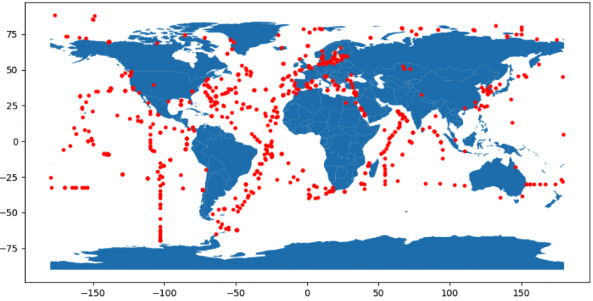
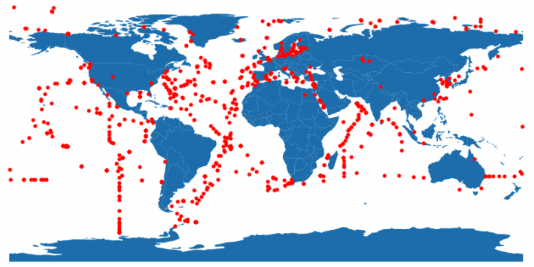
minor corrections to marine cat v2 post

diff --git a/_posts/2024-08-08-Charting-New-Waters.md b/_posts/2024-08-08-Charting-New-Waters.md
@@ -9,8 +9,10 @@ emg:
     https://www.ebi.ac.uk/metagenomics/genome-catalogues/marine-v2-0
 ---
 ![Cartoon illustration of a marine biome]({{site.baseurl}}/assets/media/images/posts/marine/biome-icon.svg){:width="136px"}
-We are excited to announce the release of an updated version of the [MGnify Genomes marine catalogue](https://www.ebi.ac.uk/metagenomics/genome-catalogues/marine-v2-0). This latest release (v2.0) of the marine catalogue contains data from 1628 studies.
-Including genomes from major sampling expeditions such as Tara Oceans, Malaspina, GO-Ship, and Geotraces, amongst others. The inclusion of these datasets resulted in a broad geographical distribution of samples represented in the catalogue as shown in the image below.
+We are excited to announce the release of an updated version of the [MGnify Genomes marine catalogue](https://www.ebi.ac.uk/metagenomics/genome-catalogues/marine-v2-0).
+This latest release (v2.0) of the marine catalogue contains data from 1628 studies, including genomes from major sampling expeditions such as Tara Oceans, Malaspina, GO-Ship, and Geotraces, amongst others. 
+
+The inclusion of these datasets resulted in a broad geographical distribution of samples represented in the catalogue, as shown in the image below.
 
 <figure>
     <img src="{{site.baseurl}}/assets/media/images/posts/marine/geo-distribution.png" alt="Schematic illustration of dataflow from three existing catalogues and newly assembled MAGs into the new unified catalogue" style="width:100%;" id="fig-dataflow"/>
@@ -19,9 +21,9 @@ Including genomes from major sampling expeditions such as Tara Oceans, Malaspina
     </figcaption>
 </figure>
 
-An important advancement in this version of the catalogue is that it is representative of the marine genomes available in the public archives at the time of generation. It includes not only those generated and submitted by MGnify, but also MAGs generated by other groups and submitted to the INSDC, as well as isolate genomes (and MAGs) from marine data as curated by MarDB. All genomes undergo the same filtering for a quality score of QS50 (QS, quality score, defined as completeness - 5 x contamination) resulting in a total of 50,866 genomes (50,634 MAGs and 232 isolates) included in v2.0 of the MGnify Genomes marine catalogue.
+An important advancement in this version of the catalogue is that it is representative of the marine genomes available in the public archives at the time of generation. It includes not only those generated and submitted by MGnify, but also MAGs generated by other groups and submitted to the INSDC, as well as isolate genomes (and MAGs) from marine data as curated by [MarDB](https://dx.doi.org/10.1093/nar/gkx1036). All genomes undergo the same filtering for a quality score of QS50 (QS, quality score, defined as `completeness - 5 x contamination`) resulting in a total of 50,866 genomes (50,634 MAGs and 232 isolates) included in v2.0 of the MGnify Genomes marine catalogue.
 
-This catalogue was generated using v2.3.0 of the MGnify Genomes catalogue pipeline which is available on [GitHub](https://github.com/EBI-Metagenomics/genomes-pipeline/releases/tag/v2.3.0) and [WorkflowHub](https://workflowhub.eu/workflows/462). Genomes are clustered into 13,223 species-level clusters, with a cluster representative genome defined for each. [GTDB-tk (Genome Taxonomy DataBase Toolkit)](https://github.com/Ecogenomics/GTDBTk) is used to assign a taxonomic rank to the clusters, allowing us to also understand the proportion of genomes within the catalogue which can be considered novel with respect to the current release of [GTDB](https://gtdb.ecogenomic.org/). The various statistics for the catalogue are shown in the table below.
+This catalogue was generated using v2.3.0 of the MGnify Genomes catalogue pipeline which is available on [GitHub](https://github.com/EBI-Metagenomics/genomes-pipeline/releases/tag/v2.3.0) and [WorkflowHub](https://workflowhub.eu/workflows/462). Genomes are clustered into 13,223 species-level clusters, with a cluster representative genome defined for each. [GTDB-Tk (Genome Taxonomy DataBase Toolkit)](https://github.com/Ecogenomics/GTDBTk) is used to assign a taxonomic rank to the clusters, allowing us to also understand the proportion of genomes within the catalogue which can be considered novel with respect to the current release of [GTDB](https://gtdb.ecogenomic.org/). The various statistics for the catalogue are shown in the table below.
 
 <table style="width:100%; border-collapse: collapse;">
   <tr>
@@ -70,15 +72,13 @@ This catalogue was generated using v2.3.0 of the MGnify Genomes catalogue pipeli
   </tr>
 </table>
 
-As with all MGnify Genomes catalogues, the data is available to access and query both through the [MGnify website](https://www.ebi.ac.uk/metagenomics/genome-catalogues/marine-v2-0) as well as via the [MGnify API](https://www.ebi.ac.uk/metagenomics/api/v1/). The catalogue can be browsed by list of genomes and taxonomic tree, with the ability to filter on metadata fields, providing access to individual cluster representative genome records. Within the individual genome records there are comprehensive genome statistics, summaries of annotations, and an interactive genome browser allowing interrogation of the various annotation tracks and their genomic context. All results files can be downloaded via FTP from the catalogue directory. There are also two sequence-based search options that can be carried out via the website or API. The first is a COBS (Compact Bit-Sliced Signature Index)-based query for searching gene sequences against the catalogues. The second is a kmer-based search using Sourmash to allow querying of whole genomes or sets of genomes against the catalogues.
+As with all MGnify Genomes catalogues, the data is available to access and query both through the [MGnify website](https://www.ebi.ac.uk/metagenomics/genome-catalogues/marine-v2-0) as well as via the [MGnify API](https://www.ebi.ac.uk/metagenomics/api/v1/). The catalogue can be browsed as a list of genomes, with the ability to filter on metadata fields, or a taxonomic tree providing access to individual cluster representative genome records. 
+Within the individual genome records there are comprehensive genome statistics, summaries of annotations, and an interactive genome browser allowing interrogation of the various annotation tracks and their genomic context. All results files can be downloaded via HTTP or FTP from [the catalogue directory](https://ftp.ebi.ac.uk/pub/databases/metagenomics/mgnify_genomes/marine/). There are also two sequence-based search options that can be carried out via the website or API. The first is a [COBS (COmpact Bit-sliced Signature index)](https://cobs.readthedocs.io/en/latest/)-based query for searching gene sequences against the catalogues. 
+The second is a kmer-based search using [Sourmash](https://sourmash.readthedocs.io/en/latest/) to allow querying of whole genomes or sets of genomes against the catalogues.
 
-As always we would welcome any feedback you have on this latest version of the marine catalogue, or indeed any aspect of MGnify and MGnify genomes.
+As always we would [welcome any feedback](https://www.ebi.ac.uk/about/contact/support/metagenomics) you have on this latest version of the marine catalogue, or indeed any aspect of MGnify and MGnify genomes.
 
+---
+
+![EU flag]({{site.baseurl}}/assets/media/images/posts/marine/eu-flag-horizon.jpg){: style="float: left" width="80px"}
 This work was funded by the European Union under the Horizon Europe Programme, Grant No. 101082304 (BlueRemediomics) and Grant No. 862923 (AtlantECO). Views and opinions expressed are however those of the author(s) only and do not necessarily reflect those of the European Union or the granting authority, the Research Executive Agency (REA). Neither the European Union nor the granting authority can be held responsible for them.
-
-
-
-
-
-
-

diff --git a/_posts/2024-05-28-Anvi’o-visualisations-for-refinement-of-Eukaryotic-MAGs.md b/_posts/2024-05-28-Anvi’o-visualisations-for-refinement-of-Eukaryotic-MAGs.md
@@ -1,6 +1,6 @@
 ---
 published: true
-category: spotlight
+category: tools
 title: Anvi’o visualisations for refinement of Eukaryotic MAGs
 layout: post
 emg:
